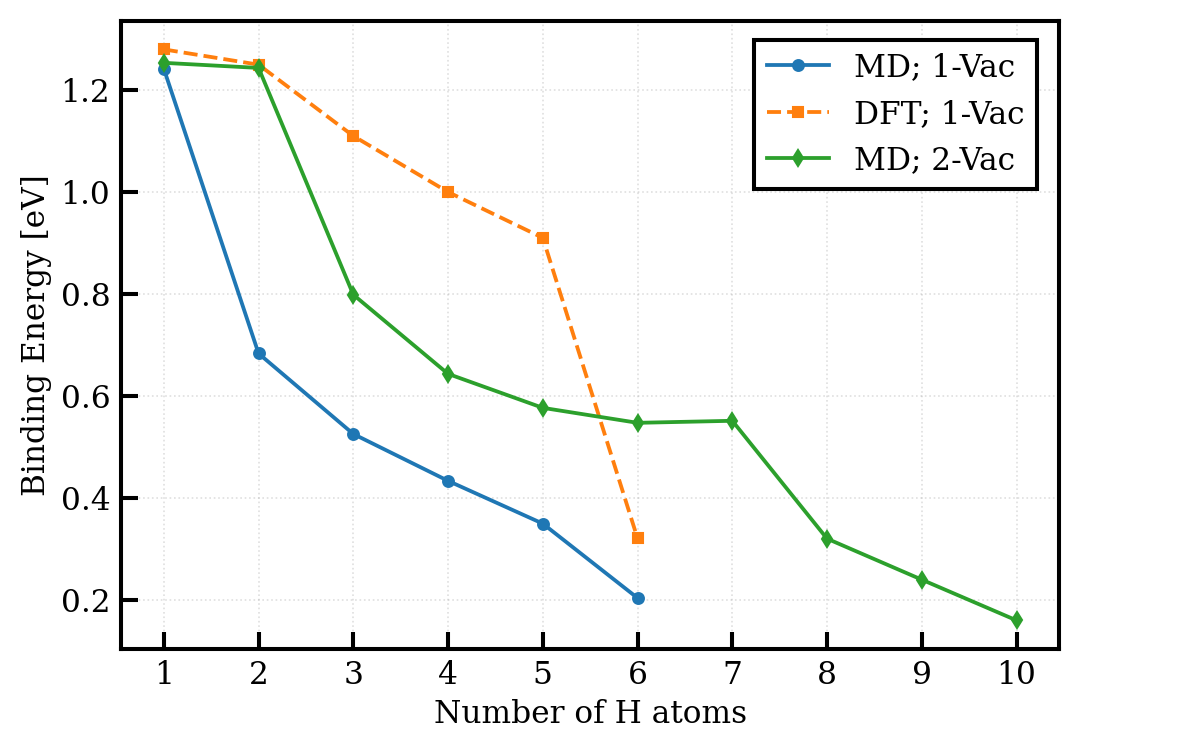
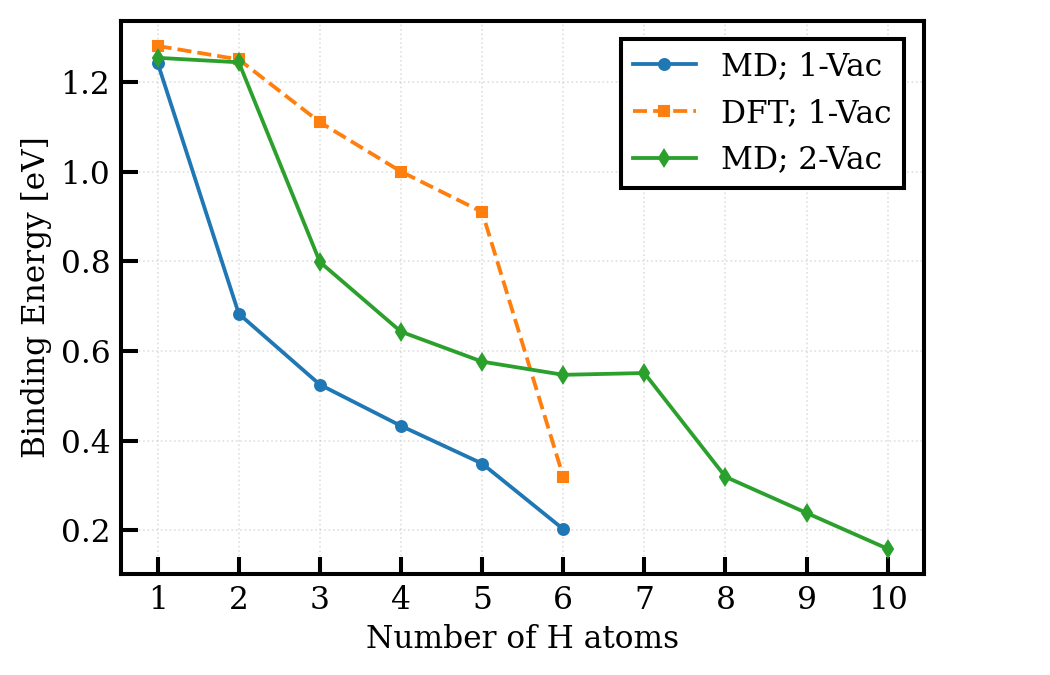
adjust plot sizes

Changed region(s): [[0.0, 0.0, 0.8838, 0.9644]]

diff --git a/5_Results.tex b/5_Results.tex
@@ -62,7 +62,7 @@ Thus, an increase in the binding energies of the five first hydrogen atoms to th
 
 \begin{figure}[!ht]
 	\center
-	\includegraphics[width=0.55\linewidth]{Ebind.png}
+	\includegraphics[width=0.59\linewidth]{Ebind.png}
 	\caption{Comparision of the H-W binding energy in MD using the EAM1 potential by Bonny \textit{et. al} and DFT results by Heinola \textit{et. al. }\cite{heinolaTungstenDFT}}
 	\label{Fig:Ebind1H_DFT}
 \end{figure}
@@ -73,7 +73,7 @@ We can also see from both Fig. \ref{Fig:1Vac_results} and \ref{Fig:2Vac_results}
 
 \begin{figure}[!ht]
 	\center
-	\includegraphics[width=0.55\linewidth]{epot.png}
+	\includegraphics[width=0.62\linewidth]{epot.png}
 	\caption{The potential energies of all individual T atoms in a 500 K simulation.\vspace*{6mm}}
 	\label{Fig:Epot}
   %\label{fig:sub-second}

diff --git a/plotting-scripts/plot_Ebind.py b/plotting-scripts/plot_Ebind.py
@@ -25,7 +25,7 @@ MD2V  = readData('../Ebind-data/Ebind_MD_2V.dat', [0,1])
 print('Drawing figures ...')
 
 # ------------------------ H&T isoEx vs diffusion --------------------------
-plt.figure(1,[8, 5])
+plt.figure(1,[7, 4.5])
 ax = plt.subplot(111)
 
 # Plot marker & line styles
